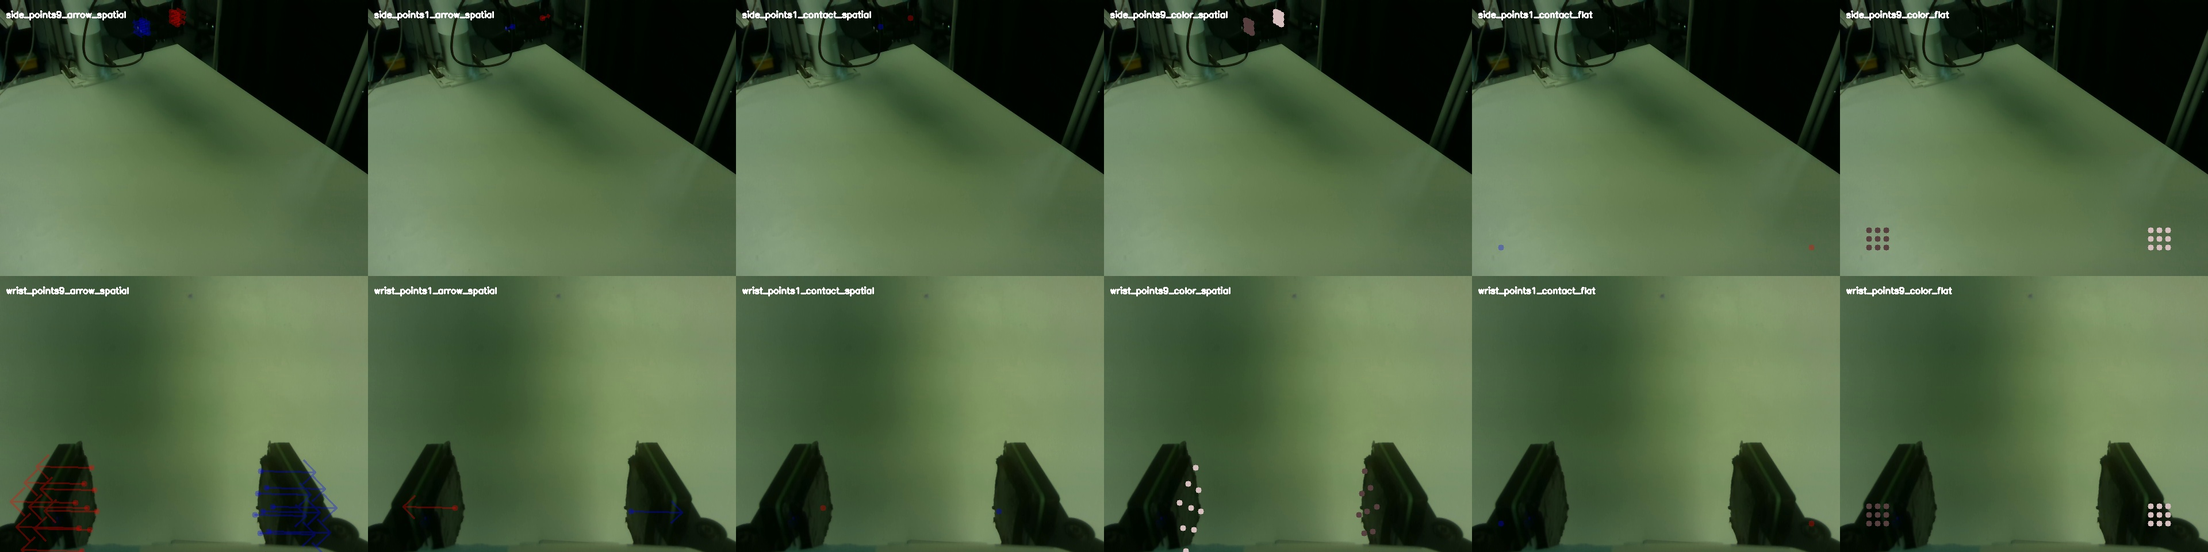
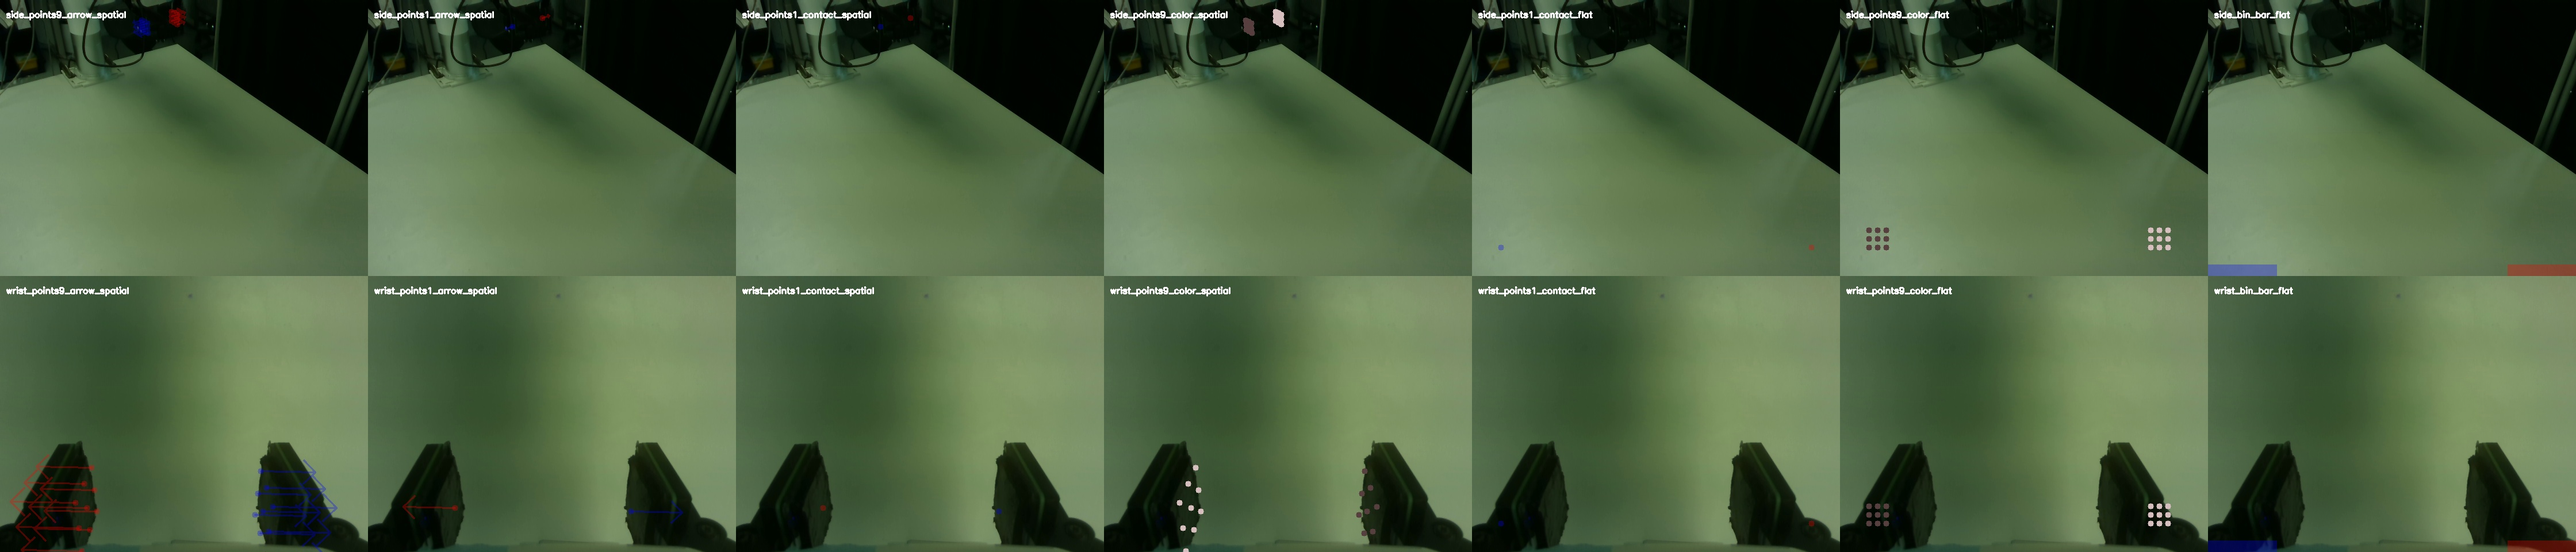
add bin bar mode

diff --git a/draw_sensors.py b/draw_sensors.py
@@ -119,7 +119,7 @@ class SensorDrawer:
                       scale=1.0, is_spatial=True,
                       normalized_left_sensor=None, normalized_right_sensor=None,
                       arrow_thickness=2, arrow_length_scale=0.12, mode="points9_arrow",
-                      color_scale=1.0):
+                      color_scale=1.0, bar_scale=300.0):
         """
         Draw sensor points and force arrows on the given image.
 
@@ -147,15 +147,23 @@ class SensorDrawer:
                 "points9_color" - Draw 9 dots per side, no arrows. Each dot color is derived
                     from its sensor xyz reading mapped linearly to RGB. Left maps to 0-127,
                     right maps to 128-255. Fully opaque. Supports both is_spatial=True and False.
+                "bin_bar" - Draw a thin horizontal bar at the bottom corner for each finger
+                    (requires is_spatial=False). Width is proportional to the L2 norm of the
+                    averaged force across 9 sensors. Left bar grows right from the left edge;
+                    right bar grows left from the right edge. Bar height is 20 pixels.
             color_scale: Multiplier applied to sensor xyz values before color mapping
                 in points9_color mode. Values are clamped to [-1, 1] after scaling.
+            bar_scale: Pixels per unit of L2 force magnitude in bin_bar mode.
+                Bar width = min(magnitude * bar_scale, image_width / 2).
         """
-        valid_modes = ("points9_arrow", "points1_arrow", "points1_contact", "points9_color")
+        valid_modes = ("points9_arrow", "points1_arrow", "points1_contact", "points9_color", "bin_bar")
         if mode not in valid_modes:
             raise ValueError(f"Unsupported mode '{mode}', must be: {', '.join(valid_modes)}")
 
         if mode in ("points9_arrow", "points1_arrow") and not is_spatial:
             raise ValueError(f"mode='{mode}' requires is_spatial=True")
+        if mode == "bin_bar" and is_spatial:
+            raise ValueError("mode='bin_bar' requires is_spatial=False")
 
         img_out = image.copy()
 
@@ -421,5 +429,32 @@ class SensorDrawer:
                     py = y_offset + gy * (dot_size + 5)
                     cv2.circle(img_out, (int(px_l), int(py)), dot_size // 2, left_colors[i], -1)
                     cv2.circle(img_out, (int(px_r), int(py)), dot_size // 2, right_colors[i], -1)
+
+        elif mode == "bin_bar":
+            bar_height = 20
+            h, w = img_out.shape[:2]
+            max_bar_width = w // 2  # left and right bars each stay within their half
+
+            overlay = img_out.copy()
+            for sensor_data, color, side in [
+                (normalized_left_sensor, left_color, 'left'),
+                (normalized_right_sensor, right_color, 'right'),
+            ]:
+                if sensor_data is None:
+                    continue
+                avg_force = sensor_data.mean(axis=0)  # (3,)
+                magnitude = np.linalg.norm(avg_force)
+                bar_width = int(min(magnitude * bar_scale, max_bar_width))
+                if bar_width <= 0:
+                    continue
+                y1, y2 = h - bar_height, h
+                if side == 'left':
+                    x1, x2 = 0, bar_width
+                else:
+                    x1, x2 = w - bar_width, w
+                cv2.rectangle(overlay, (x1, y1), (x2, y2), color[:3], -1)
+
+            alpha = left_color[3] / 255.0 if len(left_color) > 3 else 1.0
+            cv2.addWeighted(overlay, alpha, img_out, 1 - alpha, 0, img_out)
 
         return img_out

diff --git a/example_draw.py b/example_draw.py
@@ -1,7 +1,7 @@
 """
 Example usage of SensorDrawer: draw normalized sensor data (0, 0, 0.4) for all 9 readings
-on both left and right sides, using all 4 modes and both cameras.
-Modes that support is_spatial=False (points1_contact, points9_color) are drawn both ways.
+on both left and right sides, using all modes and both cameras.
+Modes that support is_spatial=False (points1_contact, points9_color, bin_bar) are drawn both ways.
 """
 import numpy as np
 import cv2
@@ -26,6 +26,7 @@ draw_configs = [
     ("points9_color",   True,  0.12),
     ("points1_contact", False, 0.12),
     ("points9_color",   False, 0.12),
+    ("bin_bar",         False, 0.12),
 ]
 
 results = []
@@ -72,12 +73,13 @@ for mode, is_spatial, arrow_scale in draw_configs:
     cv2.putText(img, label, (10, 30), cv2.FONT_HERSHEY_SIMPLEX, 0.5, (255, 255, 255), 2)
     results.append(img)
 
-# --- Tile all 12 results into a single image (2 rows x 6 cols) ---
+# --- Tile all 14 results into a single image (2 rows x 7 cols) ---
+n_configs = len(draw_configs)
 target_h, target_w = 480, 640
 resized = [cv2.resize(img, (target_w, target_h)) for img in results]
 
-row_top = np.hstack(resized[:6])      # side camera configs
-row_bottom = np.hstack(resized[6:])   # wrist camera configs
+row_top = np.hstack(resized[:n_configs])      # side camera configs
+row_bottom = np.hstack(resized[n_configs:])   # wrist camera configs
 tiled = np.vstack([row_top, row_bottom])
 
 cv2.imwrite("example_all_modes.jpg", tiled)

diff --git a/README.md b/README.md
@@ -19,6 +19,7 @@ The `draw_on_image` method of `SensorDrawer` allows flexible rendering of sensor
 - `"points1_arrow"`: Draws 1 center dot and 1 averaged force arrow per side (requires `is_spatial=True`).
 - `"points1_contact"`: Draws 1 center dot per side only when any sensor magnitude exceeds a threshold (`>= 0.05`). Supports spatial mapping and 2D overlay.
 - `"points9_color"`: Draws 9 dots per side with no arrows. The dots are colored based on sensor XYZ readings mapped linearly to RGB. Supports spatial mapping and 2D overlay.
+- `"bin_bar"`: Draws a thin horizontal bar (20 px tall) at the bottom corner for each finger (requires `is_spatial=False`). Bar width is proportional to the L2 norm of the averaged force across 9 sensors. The left bar grows rightward from the left edge; the right bar grows leftward from the right edge. Both are capped at half the image width to prevent overlap. Controlled by `bar_scale` (pixels per unit magnitude, default 300).
 
 ### Main Arguments
 - `image`: The BGR/RGB numpy array (current version 640x480 only since camera K matrix is hardcoded with 640*480 resolution) to draw on.
